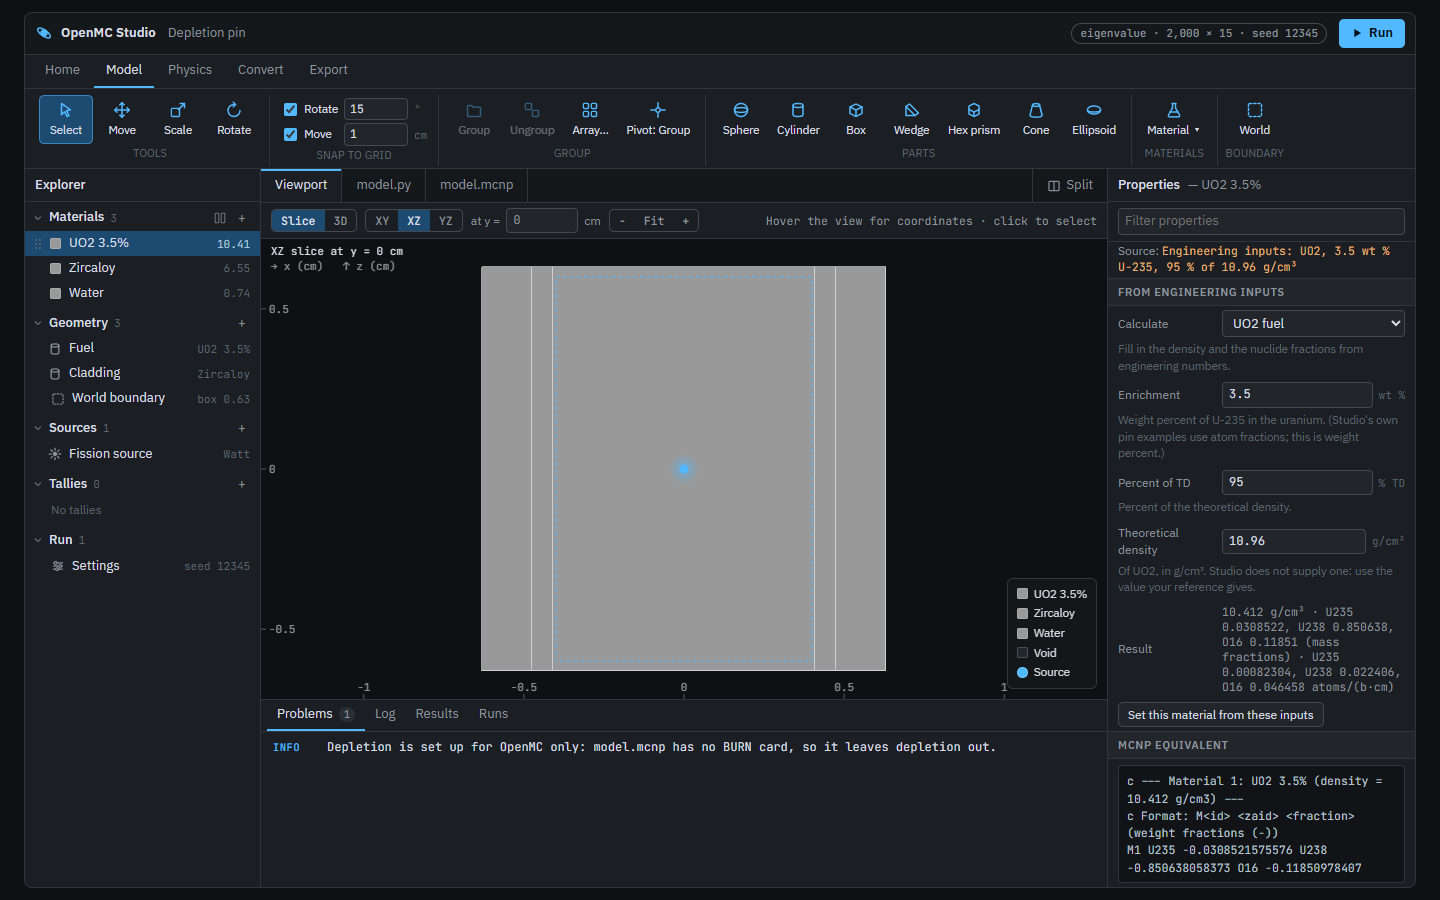
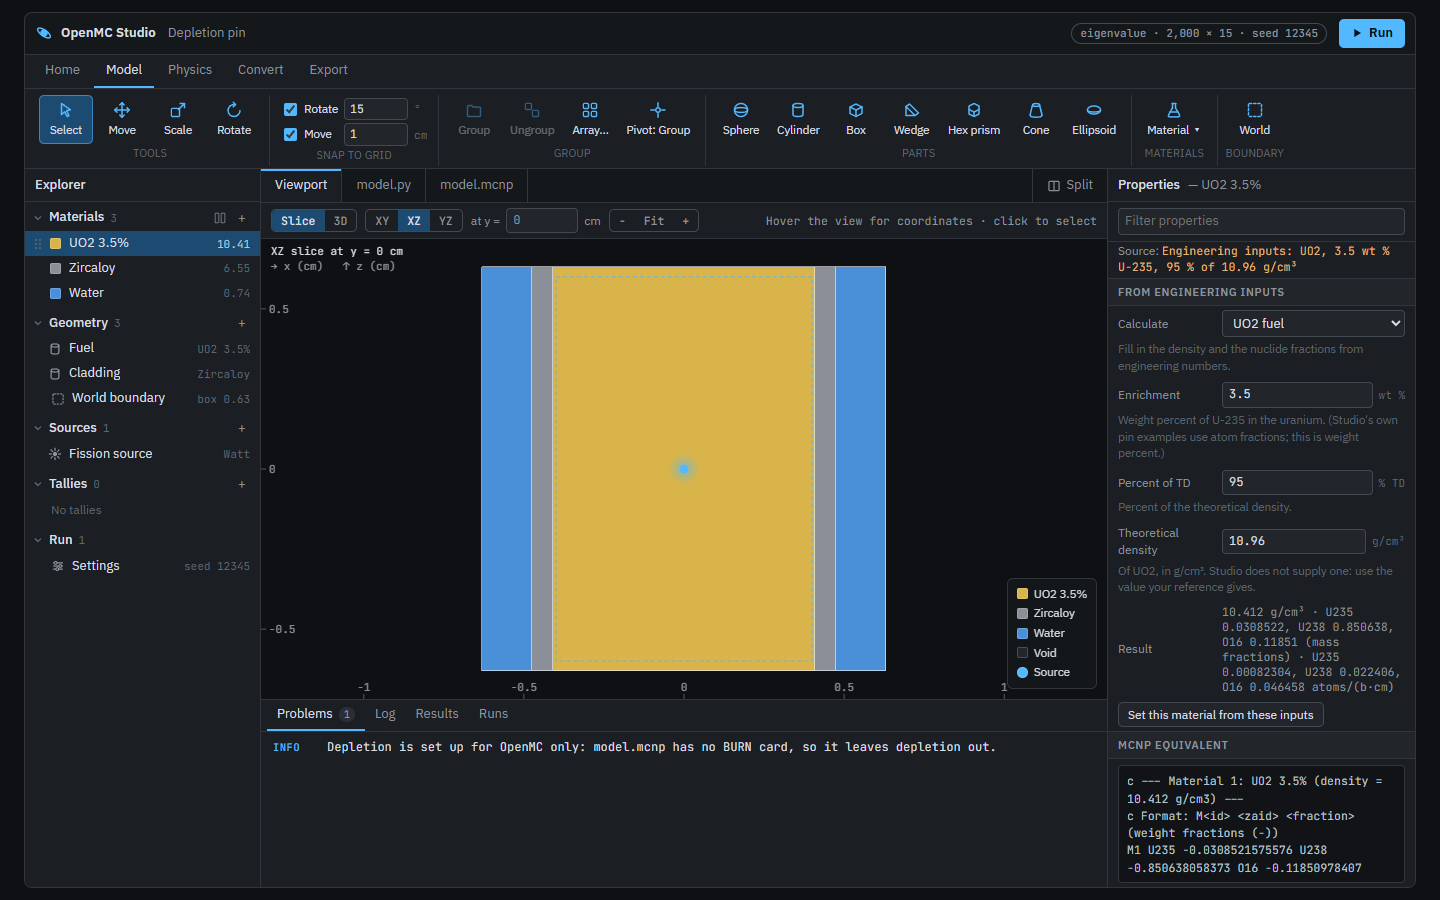
README: screenshots of the running app (editor, flux map, depletion, pin power, material helper)

Changed region(s): [[0.3125, 0.28, 0.625, 0.7467]]

diff --git a/README.md b/README.md
@@ -37,6 +37,31 @@ requires.
 - **Checks before and after a run:** the same refusals run in the page and on the server before a run starts; Results lists checks on the run (particles per
   batch, lost particles, the figure of merit of each tally), can check a run's record against today's environment, and saves a one-page run report.
 
+## What it looks like
+
+These are screenshots of the running app, made by [test/make_screenshots.cjs](test/make_screenshots.cjs): each model is run in OpenMC and the page photographed
+when the run has finished.
+
+![The editor: the shielding demo model with its parts, sources and tallies in the Explorer, a slice through it in the viewport, and the run settings](docs/images/editor.png)
+
+*The editor with the demo model: parts and materials on the left, a slice in the middle, properties on the right.*
+
+![The results of a fixed-source run: a flux map over the slice and neutron tracks on the viewport, with the run's results below](docs/images/results-flux.png)
+
+*A finished fixed-source run: a flux map and neutron tracks on the viewport, the run and its checks under Results.*
+
+![A depletion run of a UO2 pin cell: the table of burnup and k-eff, the k-eff chart and the inventory chart](docs/images/depletion.png)
+
+*Depletion of a single UO2 pin cell (two steps): burnup in MWd/tU, k-eff against burnup and the inventory of the main nuclides.*
+
+![A pin power map of a 9 by 9 pin array: relative power per pin, the highest pin and the top five](docs/images/pin-power.png)
+
+*Pin power of a 9 × 9 array of UO2 pins in water with vacuum all round: the pins next to the water run hottest. The numbers carry their statistical error; the panel says how much noise alone could add to the peak.*
+
+![The material editor with the From engineering inputs section filled in for UO2](docs/images/material-helper.png)
+
+*Material from engineering inputs: UO2 at 3.5 wt % enrichment and 95 % of an entered theoretical density.*
+
 **Setting up for the first time? See [INSTRUCTIONS.md](INSTRUCTIONS.md)**: conda environment, nuclear data
 download, and how to start the app.
 
